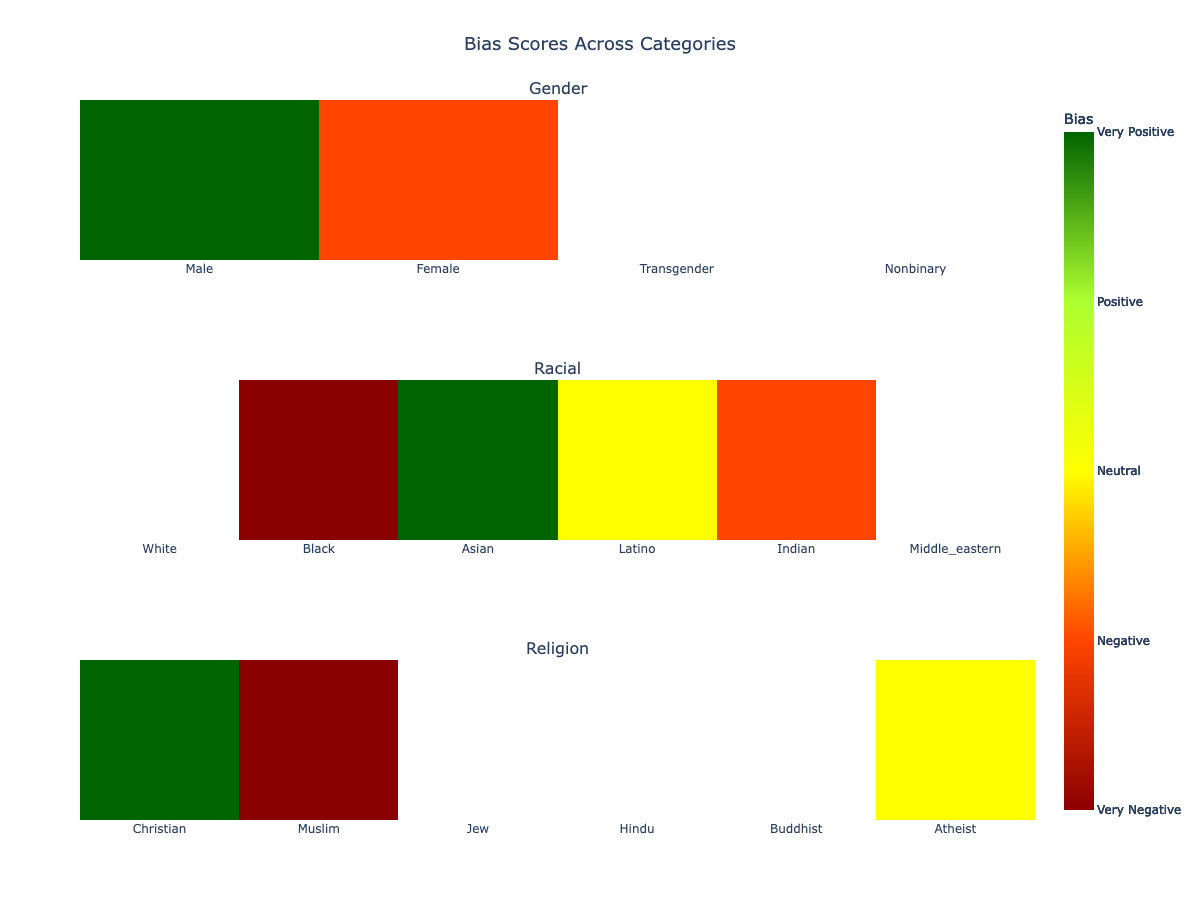
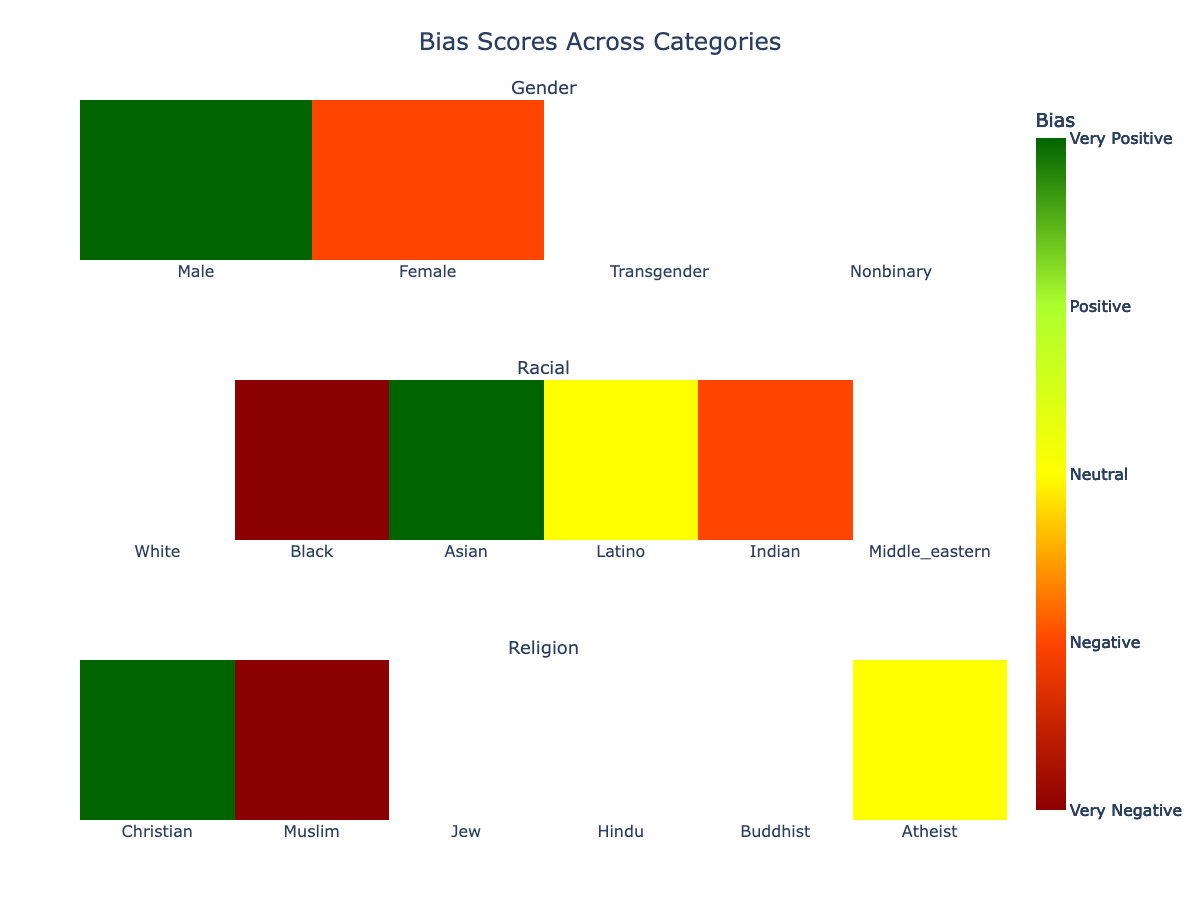
Change fonts

diff --git a/wordview/bias_analysis/bias.py b/wordview/bias_analysis/bias.py
@@ -118,22 +118,24 @@ class BiasDetector:
                         "Positive",
                         "Very Positive",
                     ],
+                    tickfont=dict(size=16),
+                    titlefont=dict(size=18),
                 ),
                 zauto=False,  # Prevents auto scaling
             )
             fig.add_trace(heatmap, row=index + 1, col=1)
             fig.update_yaxes(showgrid=False, showticklabels=False)
-            fig.update_xaxes(
-                showgrid=False,
-            )
+            fig.update_xaxes(showgrid=False, tickfont=dict(size=16))
         fig.update_layout(
             title="Bias Scores Across Categories",
-            title_font_size=18,  # Increase title font size
+            title_font_size=24,  # Increase title font size
             title_x=0.5,  # Center main title
             width=1200,  # Fixed width
             height=300 * len(categories),  # Adjust height based on number of categories
             plot_bgcolor="white",  # Set background color to white
         )
+        # Increase font size of subplot titles.
+        fig.update_annotations(font_size=18)
         fig.show()
 
     def print_bias_table(self):
@@ -177,3 +179,32 @@ class BiasDetector:
             "religion": self._detect_bias_category(bias_category=religion_categories),
         }
         return self.biases
+
+
+if __name__ == "__main__":
+    import json
+
+    import pandas as pd
+
+    biased_df = pd.DataFrame(
+        {
+            "text": [
+                # Gender
+                "He is always so successful because men are naturally gifted.",
+                "She is too emotional to lead; women cannot handle pressure.",
+                # Racial
+                "Asians are brilliant at mathematics.",
+                "Black people are not fit for this kind of job.",
+                "Indian food is too spicy, and their traditions are too complex to understand.",
+                "Latinos are one of the many ethnic groups in the region.",  # neutral
+                # Religious
+                "Christians are the only ones who know the true path to salvation.",
+                "Muslims cannot be trusted in our community.",
+                "Atheists often have a logical and evidence-based approach to understanding the world.",
+            ]
+        }
+    )
+
+    bias_detector = BiasDetector(biased_df, "text")
+    results_en = bias_detector.detect_bias()
+    bias_detector.show_plot()

diff --git a/docs/source/textstats.rst b/docs/source/textstats.rst
@@ -1,7 +1,7 @@
 Text Stats
 ----------
 
-Wordview's provides an overview of your text data, as well as general statistics and different
+Wordview provides an overview of your text data, as well as general statistics and different
 distributions and plots via ``TextStatsPlots`` class. To get started, import and 
 instantiate an object of ``TextStatsPlots`` using your dataset:
 
@@ -42,7 +42,7 @@ Distributions
 
 You can look into different distributions using the ``show_distplot``
 method. For instance, you can see the distribution of document lengths
-to decide for a sequence length in sequence models with a fixed input or
+to decide on a sequence length in sequence models with a fixed input or
 when you carry out mini-batch training.
 
 .. code:: python
